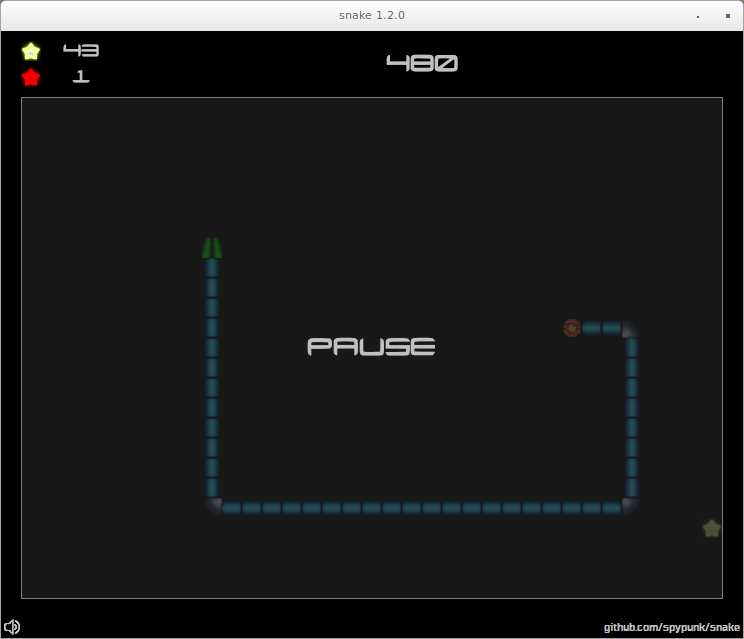
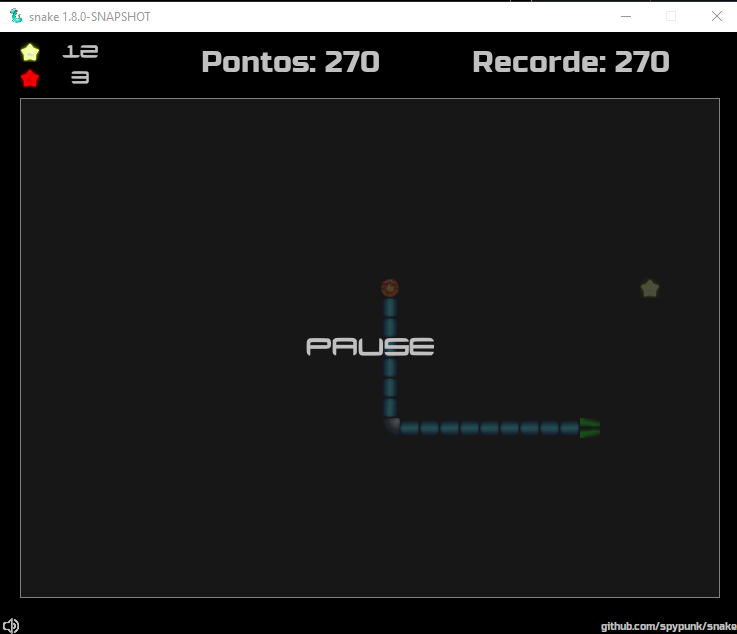
Melhorias na interface de pontuação e recorde do jogo Snake: adicionada exibição dos textos 'Pontos' e 'Recorde' na tela, implementado efeito de piscar ao bater novo recorde, ajustado posicionamento dos elementos visuais, integrado sistema de salvamento e exibição do recorde, e atualizadas imagens i

diff --git a/src/main/java/spypunk/snake/ui/view/SnakeScoreView.java b/src/main/java/spypunk/snake/ui/view/SnakeScoreView.java
@@ -12,7 +12,9 @@ import static spypunk.snake.ui.constants.SnakeUIConstants.CELL_SIZE;
 
 import java.awt.Graphics2D;
 import java.awt.Rectangle;
+import javax.swing.Timer;
 
+import spypunk.snake.service.HighScoreManager;
 import spypunk.snake.model.Snake;
 import spypunk.snake.ui.cache.ImageCache;
 import spypunk.snake.ui.font.cache.FontCache;
@@ -21,21 +23,60 @@ import spypunk.snake.ui.util.SwingUtils.Text;
 
 public class SnakeScoreView extends AbstractSnakeView {
 
-    private final Rectangle scoreRectangle = new Rectangle(0, 0, 30 * CELL_SIZE, 2 * CELL_SIZE);
+    // definindo àreas dos Pontos e Recorde
+    private final Rectangle scoreRectangle = new Rectangle(50, 0, 12 * CELL_SIZE, 2 * CELL_SIZE);
+    private final Rectangle highScoreRectangle = new Rectangle(300, 0, 15 * CELL_SIZE, 2 * CELL_SIZE);
+
+    private final HighScoreManager highScoreManager;
+
+    private int displayedHighScore;
+    private boolean showRecord = true;
+    private boolean recordBlinking = false;
 
     public SnakeScoreView(final FontCache fontCache,
-            final ImageCache imageCache,
-            final Snake snake) {
+                          final ImageCache imageCache,
+                          final Snake snake,
+                          final HighScoreManager highScoreManager) {
         super(fontCache, imageCache, snake);
-
-        initializeComponent(scoreRectangle.width, scoreRectangle.height);
+        this.highScoreManager = highScoreManager;
+        this.displayedHighScore = highScoreManager.getHighScore();
+        initializeComponent(scoreRectangle.width + highScoreRectangle.width,
+                            Math.max(scoreRectangle.height, highScoreRectangle.height));
     }
 
     @Override
     protected void doPaint(final Graphics2D graphics) {
-        final String score = String.valueOf(snake.getScore());
-        final Text scoreText = new Text(score, fontCache.getScoreFont());
+        final int currentScore = snake.getScore();
 
+        final Text scoreText = new Text("Pontos: " + currentScore, fontCache.getScoreFont());
         SwingUtils.renderCenteredText(graphics, scoreRectangle, scoreText);
+
+        // atualiza displayedHighScore se score atual ultrapassou o record antigo
+        if (currentScore > displayedHighScore) {
+            displayedHighScore = currentScore;
+
+            // efeito de piscar por 3 segundos
+            if (!recordBlinking) {
+                recordBlinking = true;
+
+                Timer blinkTimer = new Timer(300, e -> showRecord = !showRecord);
+                blinkTimer.setRepeats(true);
+                blinkTimer.start();
+
+                // parar de piscar após 3 segundos
+                new Timer(3000, e -> {
+                    blinkTimer.stop();
+                    showRecord = true;
+                    recordBlinking = false;
+                    ((Timer) e.getSource()).stop();
+                }).start();
+            }
+        }
+
+        // record (pisca quando bate novo)
+        if (showRecord) {
+            final Text highScoreText = new Text("Recorde: " + displayedHighScore, fontCache.getScoreFont());
+            SwingUtils.renderCenteredText(graphics, highScoreRectangle, highScoreText);
+        }
     }
 }

diff --git a/src/main/java/spypunk/snake/service/SnakeServiceImpl.java b/src/main/java/spypunk/snake/service/SnakeServiceImpl.java
@@ -8,6 +8,7 @@
 
 package spypunk.snake.service;
 
+import spypunk.snake.service.HighScoreManager;
 import java.awt.Point;
 import java.awt.Rectangle;
 import java.util.Deque;
@@ -49,9 +50,12 @@ public class SnakeServiceImpl implements SnakeService {
 
     private static Snake snake;
 
+    private final HighScoreManager highScoreManager;
+
     @Inject
-    public SnakeServiceImpl(@SnakeProvider final Snake snake) {
+    public SnakeServiceImpl(@SnakeProvider final Snake snake, final HighScoreManager highScoreManager) {
         this.snake = snake;
+	this.highScoreManager = highScoreManager;
     }
 
     @Override
@@ -86,7 +90,7 @@ public class SnakeServiceImpl implements SnakeService {
 
     @Override
     public void pause() {
-        snake.setState(snake.getState().onPause());
+        snake.setState(snake.getState().togglePause());
     }
 
     @Override
@@ -151,6 +155,10 @@ public class SnakeServiceImpl implements SnakeService {
         } else {
             snake.setState(State.GAME_OVER);
             snake.getSnakeEvents().add(SnakeEvent.GAME_OVER);
+
+	  if (snake.getScore() > highScoreManager.getHighScore()) {
+        highScoreManager.saveHighScore(snake.getScore());
+    }
         }
 
         resetCurrentMovementFrame();
